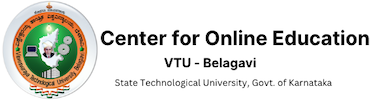
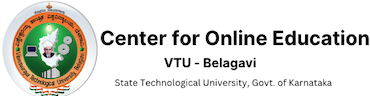
feat: add SiteChrome component and define custom Kaushalkar design system styles

Changed region(s): [[0.0297, 0.0625, 1.0, 1.0], [0.2973, 0.7812, 0.9216, 0.9375], [0.4459, 0.5625, 0.7135, 0.75]]

diff --git a/ksaw/src/styles.css b/ksaw/src/styles.css
@@ -211,34 +211,36 @@
   grid-template-columns: auto minmax(0, 1fr) auto;
   align-items: center;
   gap: 18px;
-  min-height: 88px;
+  min-height: 160px;
   padding: 10px 0;
 }
 .kk-logo { display: flex; min-width: 0; align-items: center; gap: 14px; }
-.kk-logo img { height: 58px; width: 58px; object-fit: contain; }
+.kk-logo img { height: 140px; width: 140px; object-fit: contain; }
 .kk-header-titles { text-align: center; min-width: 0; }
 .kk-header-title {
-  font-weight: 800;
-  font-size: 21px;
-  line-height: 1.25;
-  letter-spacing: 0.03em;
+  font-weight: 850;
+  font-size: 27px;
+  line-height: 1.2;
+  letter-spacing: 0.04em;
   text-transform: uppercase;
   color: var(--kk-navy, #123a6b);
+  text-shadow: 0.5px 0.5px 1px rgba(0, 0, 0, 0.05);
 }
 .kk-header-sub {
-  margin-top: 3px;
-  font-size: 12.5px;
-  letter-spacing: 0.14em;
+  margin-top: 5px;
+  font-size: 15px;
+  font-weight: 600;
+  letter-spacing: 0.16em;
   text-transform: uppercase;
-  color: #6b7280;
+  color: #4b5563;
 }
-.kk-header-spacer { width: 130px; }
+.kk-header-spacer { width: 294px; }
 @media (max-width: 900px) {
-  .kk-header-title { font-size: 14px; letter-spacing: 0.02em; }
-  .kk-header-sub { font-size: 10.5px; }
-  .kk-logo img { height: 40px; width: 40px; }
+  .kk-header-title { font-size: 17px; letter-spacing: 0.02em; }
+  .kk-header-sub { font-size: 12px; }
+  .kk-logo img { height: 85px; width: 85px; }
   .kk-header-spacer { display: none; }
-  .kk-header-in { grid-template-columns: auto minmax(0, 1fr); min-height: 72px; gap: 12px; }
+  .kk-header-in { grid-template-columns: auto minmax(0, 1fr); min-height: 95px; gap: 12px; }
   .kk-header-titles { text-align: left; }
 }
 

diff --git a/ksaw/src/components/reg/SiteChrome.tsx b/ksaw/src/components/reg/SiteChrome.tsx
@@ -6,8 +6,8 @@ export function SiteHeader() {
     <header className="kk-header">
       <div className="kk-wrap kk-header-in">
         <div className="kk-logo">
-          <img src={govLogo} alt="Government of Karnataka emblem" width={58} height={58} />
-          <img src={univLogo} alt="Visvesvaraya Technological University logo" width={58} height={58} />
+          <img src={govLogo} alt="Government of Karnataka emblem" width={140} height={140} />
+          <img src={univLogo} alt="Visvesvaraya Technological University logo" width={140} height={140} />
         </div>
         <div className="kk-header-titles">
           <p className="kk-header-title">Visvesvaraya Technological University</p>
@@ -25,7 +25,7 @@ export function PageBanner() {
       <div className="kk-wrap">
         <h1>Skill Development Registration Form</h1>
         <p>
-          For any clarifications please, visit: <a href="https://vtu.ac.in/skill-development/" target="_blank" rel="noopener noreferrer">vtu.ac.in/skill-development</a>
+          For any clarifications please, email: <a href="mailto:onlineprograms@vtu.ac.in">onlineprograms@vtu.ac.in</a>
         </p>
       </div>
     </section>
